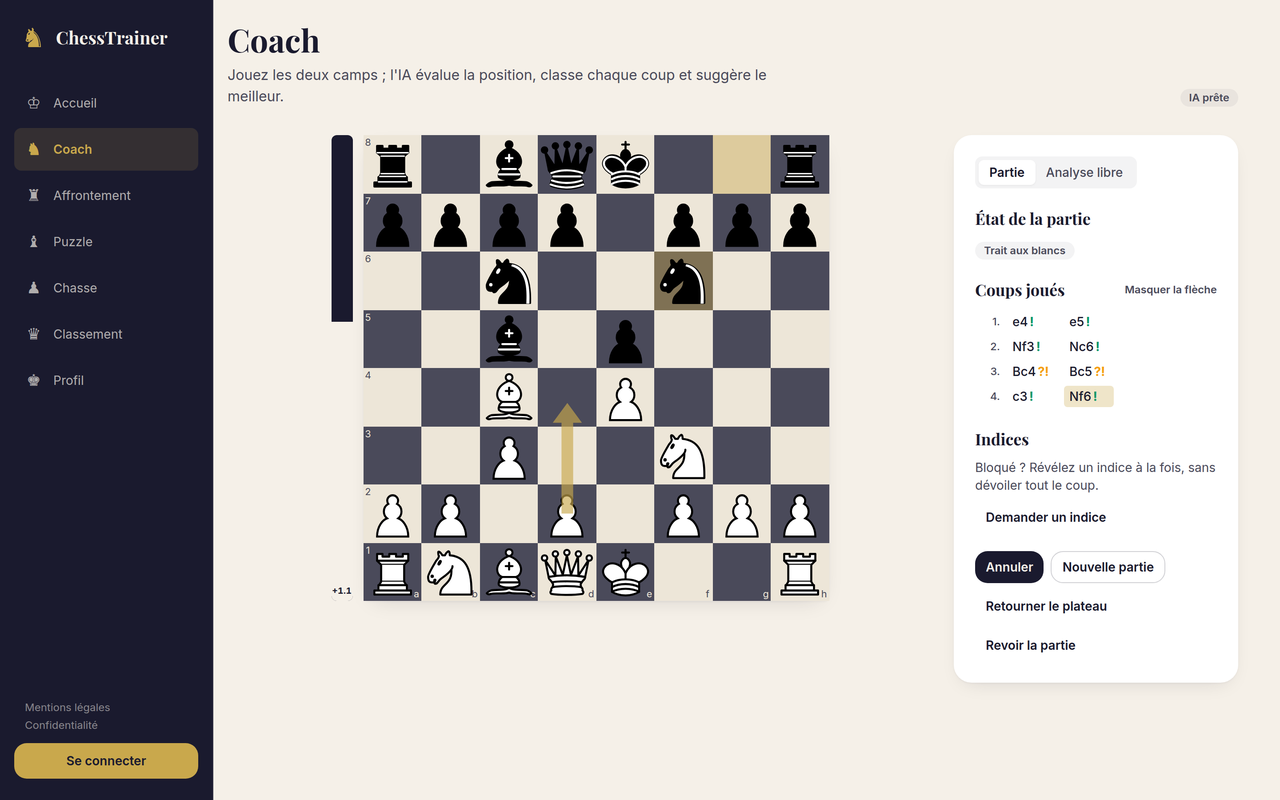
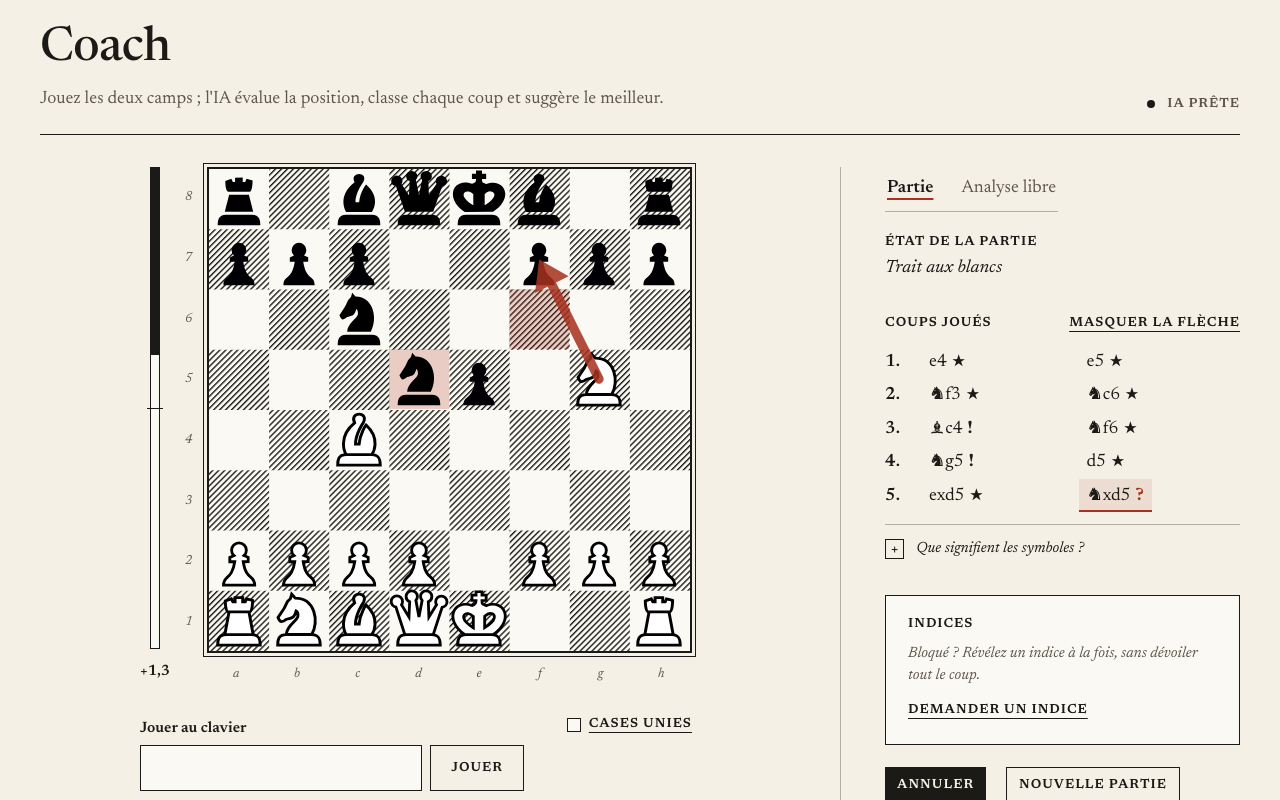
docs: show the redesign in the README, and record it in CLAUDE.md
The README's screenshots dated from August and showed the previous
identity: the coach, the puzzles and the Piece Hunt in slate and gold. They
are taken again from this branch's build, at the same 1280 × 800. Its two
badges also kept the previous gold; they take the ink.

CLAUDE.md's account of where the project stands said nothing of the
redesign. It now names the four pull requests and their order, what #130
carries for #128, and, among what is known and left for later, that the
boards describe no square to a screen reader.

diff --git a/CLAUDE.md b/CLAUDE.md
@@ -198,6 +198,16 @@ an emailed auth link to the screen it was for, whatever address Supabase drops
 it at; `robots.txt` and `sitemap.xml` generated from the route table; per-route
 titles and `noindex`.
 
+**The newsprint redesign, built and not yet merged:** direction A, "Chronique",
+as four stacked pull requests, #123 (design system), #124 (components), #128
+(pages) and #130 (board), to be merged in that order and released together.
+Paper, ink and one red, the rubric; Newsreader; rules instead of boxes; moves
+in figurine notation. The boards are chessground (GPL-3.0-or-later) drawn as a
+printed diagram, the dark squares hatched or, on the player's choice, plain,
+and every board the player plays on takes a move typed in French notation. #130
+carries a fix to #128 (tailwind-merge 2, the major for Tailwind 3), so #128 does
+not ship without it. The rules are in `docs/design-system.md`.
+
 **Search Console:** the domain property is verified by DNS, the sitemap is
 submitted, and indexing has been requested for the home page. Nothing more to do
 but wait — a new domain takes days to appear, and the brand query longer.
@@ -219,6 +229,10 @@ OVH name has a hyphen before the digit; only a real message's
 `DKIM-Signature` header gives the selector reliably. Mail sent through OVH's
 SMTP is covered; mail sent "as" this address from another provider, such as
 Gmail's send-as, is not, and `reject` would refuse it.
+
+**Known and left for later:** the boards are an image to assistive
+technology. A screen reader user can play from the keyboard field and follow
+the move list, but no square is described.
 
 **Known and deliberately unfixed:** per-move accuracy saturates on forced mates.
 The grade now prices a slow mate by its distance, but the win-chances curve reads

diff --git a/README.md b/README.md
@@ -3,11 +3,11 @@
 **[chesstrainer.fr](https://chesstrainer.fr)** — live, free, and playable without
 an account.
 
-[![Live](https://img.shields.io/badge/chesstrainer.fr-live-C9A84C)](https://chesstrainer.fr)
+[![Live](https://img.shields.io/badge/chesstrainer.fr-live-1C1A16)](https://chesstrainer.fr)
 [![CI](https://github.com/Amayyas/ChessTrainer/actions/workflows/ci.yml/badge.svg)](https://github.com/Amayyas/ChessTrainer/actions/workflows/ci.yml)
 [![Node](https://img.shields.io/badge/node-%E2%89%A522.12-5FA04E)](.nvmrc)
 [![TypeScript](https://img.shields.io/badge/TypeScript-strict-3178C6)](tsconfig.json)
-[![Licence](https://img.shields.io/badge/licence-AGPL--3.0-C9A84C)](LICENSE)
+[![Licence](https://img.shields.io/badge/licence-AGPL--3.0-1C1A16)](LICENSE)
 
 A chess trainer that analyses your games with Stockfish, explains what each move
 was worth, and turns practice into something you actually come back to.
